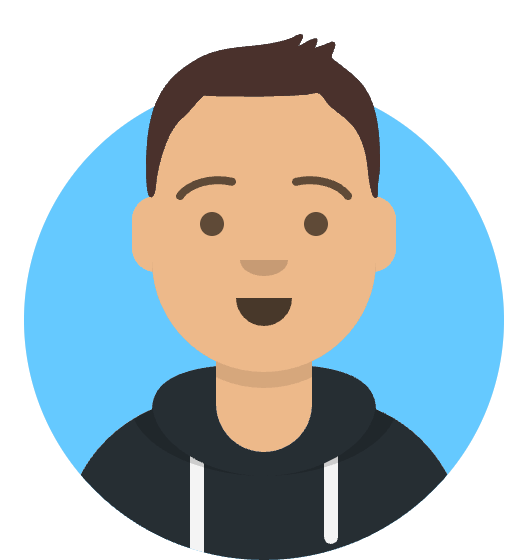
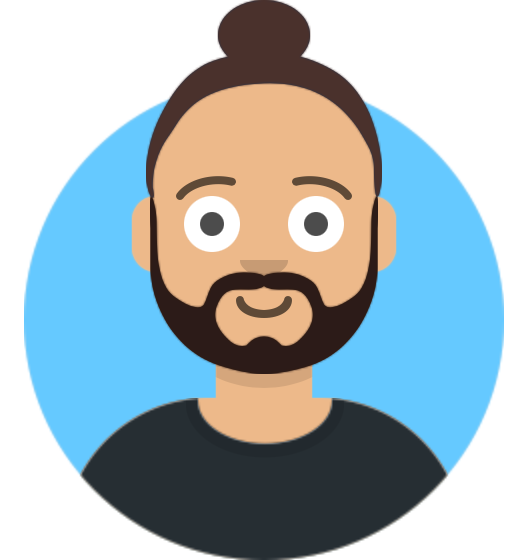
Add profile

diff --git a/profiles/dmitrii_profile.html b/profiles/dmitrii_profile.html
@@ -1,0 +1,26 @@
+<!DOCTYPE html>
+<html lang="en">
+<head>
+  <meta charset="UTF-8">
+  <title>Profile Card</title>
+  <link rel="stylesheet" href="./css/style.css">
+</head>
+<body>
+
+  <div class="card">
+    <img 
+      src="./images/avatar.png" 
+      alt="Profile Avatar"
+      class="avatar"
+    >
+
+    <h2 class="name">Dmitrii Kosenkov</h2>
+    <p class="username">Dmitrikosenkov.s@gmail.com</p>
+
+    <p class="bio">
+      Backend developer. Loves good code
+    </p>
+  </div>
+
+</body>
+</html>
